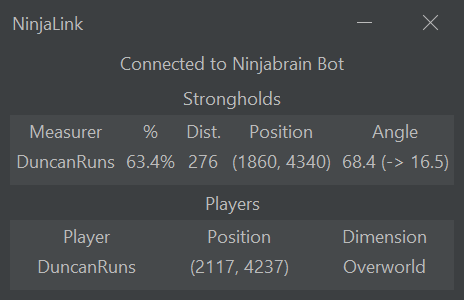
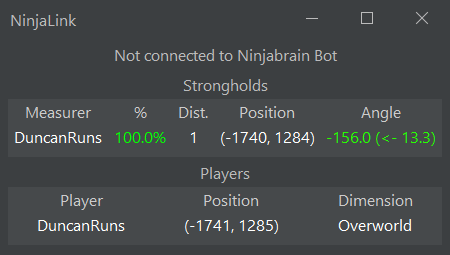
Bunch of stuff and v0.1.0

diff --git a/src/main/java/xyz/duncanruns/ninjalink/client/gui/NinjaLinkGUI.java b/src/main/java/xyz/duncanruns/ninjalink/client/gui/NinjaLinkGUI.java
@@ -1,12 +1,12 @@
 package xyz.duncanruns.ninjalink.client.gui;
 
+import org.jetbrains.annotations.NotNull;
 import xyz.duncanruns.ninjalink.client.NinjabrainBotConnector;
 import xyz.duncanruns.ninjalink.data.Dimension;
 import xyz.duncanruns.ninjalink.data.*;
 import xyz.duncanruns.ninjalink.util.AngleUtil;
 
 import javax.swing.*;
-import javax.swing.border.MatteBorder;
 import javax.swing.table.DefaultTableCellRenderer;
 import javax.swing.table.DefaultTableModel;
 import javax.swing.table.TableCellRenderer;
@@ -18,23 +18,27 @@ import java.awt.event.WindowEvent;
 import java.lang.reflect.InvocationTargetException;
 import java.util.Map;
 import java.util.Objects;
+import java.util.regex.Matcher;
+import java.util.regex.Pattern;
 
 public class NinjaLinkGUI extends JFrame {
     private final JPanel mainPanel = new JPanel();
     private final JTable playerTable = new JTable();
     private final JTable strongholdTable = new JTable();
     private final JLabel ninjabrainBotLabel = new JLabel("Not connected to Ninjabrain Bot");
+    private final int paddingSize = UIManager.getFont("defaultFont").getSize() / 2;
+    private boolean discarded = false;
 
     public NinjaLinkGUI(Runnable onClose, KeyListener keyListener) {
         super();
         GridBagLayout gridBagLayout = new GridBagLayout();
         GridBagConstraints constraints = new GridBagConstraints();
-        constraints.ipady = 10;
+        constraints.ipady = paddingSize;
         constraints.gridx = 0;
         constraints.weightx = 1;
         constraints.fill = GridBagConstraints.HORIZONTAL;
         mainPanel.setLayout(gridBagLayout);
-        mainPanel.setBorder(BorderFactory.createEmptyBorder(0, 10, 10, 10));
+        mainPanel.setBorder(BorderFactory.createEmptyBorder(0, paddingSize, paddingSize, paddingSize));
         ninjabrainBotLabel.setHorizontalAlignment(SwingConstants.CENTER);
         setContentPane(mainPanel);
         mainPanel.add(ninjabrainBotLabel, constraints);
@@ -49,14 +53,13 @@ public class NinjaLinkGUI extends JFrame {
         addWindowListener(new WindowAdapter() {
             @Override
             public void windowClosing(WindowEvent e) {
+                if (discarded) return;
                 onClose.run();
             }
         });
         setTitle("NinjaLink");
         setDefaultCloseOperation(JFrame.DISPOSE_ON_CLOSE);
-        setResizable(false);
         addKeyListener(keyListener);
-        pack();
     }
 
     public void setData(NinjaLinkGroupData groupData, NinjabrainBotEventData myData) {
@@ -118,22 +121,57 @@ public class NinjaLinkGUI extends JFrame {
         playerTable.setModel(playerTableModel);
         strongholdTable.setModel(strongholdTableModel);
         for (JTable table : new JTable[]{playerTable, strongholdTable}) {
-            DefaultTableCellRenderer centerRenderer = new DefaultTableCellRenderer();
-            centerRenderer.setHorizontalAlignment(JLabel.CENTER);
+            DefaultTableCellRenderer centerRenderer = getNinjaLinkCellRenderer();
             table.setDefaultRenderer(Object.class, centerRenderer);
             table.setFocusable(false);
             table.setRowSelectionAllowed(false);
             table.setCellSelectionEnabled(false);
-            table.setBorder(new MatteBorder(1, 1, 1, 1, UIManager.getColor("")));
             resizeColumnWidth(table);
         }
-        pack();
+        PercentageCellRenderer percentageCellRenderer = new PercentageCellRenderer();
+        percentageCellRenderer.setHorizontalAlignment(SwingConstants.CENTER);
+        AngleCellRenderer angleCellRenderer = new AngleCellRenderer();
+        angleCellRenderer.setHorizontalAlignment(SwingConstants.CENTER);
+        strongholdTable.getColumnModel().getColumn(1).setCellRenderer(percentageCellRenderer);
+        strongholdTable.getColumnModel().getColumn(4).setCellRenderer(angleCellRenderer);
+
+        adjustSize();
+    }
+
+    @NotNull
+    private static DefaultTableCellRenderer getNinjaLinkCellRenderer() {
+        DefaultTableCellRenderer centerRenderer = new DefaultTableCellRenderer() {
+            @Override
+            public Component getTableCellRendererComponent(JTable table, Object value, boolean isSelected, boolean hasFocus, int row, int column) {
+                Component c = super.getTableCellRendererComponent(table, value, isSelected, hasFocus, row, column);
+                c.setForeground(Color.getHSBColor(0, 0, row == 0 ? .8f : 1f));
+                return c;
+            }
+        };
+        centerRenderer.setHorizontalAlignment(SwingConstants.CENTER);
+        return centerRenderer;
+    }
+
+    public void adjustSize() {
+        Container contentPane = getContentPane();
+        contentPane.revalidate();
+
+        Insets insets = getInsets();
+        java.awt.Dimension contentPref = contentPane.getPreferredSize();
+        int requiredHeight = contentPref.height + insets.top + insets.bottom + 50;
+        int currentHeight = getHeight();
+        int requiredWidth = contentPref.width + insets.right + insets.left + 30;
+        int currentWidth = getWidth();
+
+        if (requiredHeight > currentHeight || requiredWidth > currentWidth)
+            setSize(Math.max(currentWidth, requiredWidth), Math.max(currentHeight, requiredHeight));
+
     }
 
     private static void resizeColumnWidth(JTable table) {
         final TableColumnModel columnModel = table.getColumnModel();
         for (int column = 0; column < table.getColumnCount(); column++) {
-            int width = 15; // Min width
+            int width = 15;
             for (int row = 0; row < table.getRowCount(); row++) {
                 TableCellRenderer renderer = table.getCellRenderer(row, column);
                 Component comp = table.prepareRenderer(renderer, row, column);
@@ -171,5 +209,56 @@ public class NinjaLinkGUI extends JFrame {
     public void setPinned(boolean b) {
         setAlwaysOnTop(b);
         setTitle("NinjaLink" + (b ? " \uD83D\uDCCC" : ""));
+    }
+
+    public void discard() {
+        discarded = true;
+        dispose();
+    }
+
+    private static class PercentageCellRenderer extends DefaultTableCellRenderer {
+        @Override
+        public Component getTableCellRendererComponent(JTable table, Object value, boolean isSelected, boolean hasFocus, int row, int column) {
+            Component c = super.getTableCellRendererComponent(table, value, isSelected, hasFocus, row, column);
+            if (row == 0) {
+                c.setForeground(Color.getHSBColor(0, 0, .8f));
+                return c;
+            }
+            if (value == null) return c;
+            try {
+                String text = value.toString().replace("%", "");
+                float percent = Float.parseFloat(text);
+                // Gradient from red (0%) to green (100%)
+                float hue = (percent / 100.0f) * 0.333f; // 0.0 (red) to 0.333 (green)
+                c.setForeground(Color.getHSBColor(hue, 1.0f, 1f));
+            } catch (NumberFormatException e) {
+                // Keep default color if parsing fails
+            }
+            return c;
+        }
+    }
+
+    private static class AngleCellRenderer extends DefaultTableCellRenderer {
+        @Override
+        public Component getTableCellRendererComponent(JTable table, Object value, boolean isSelected, boolean hasFocus, int row, int column) {
+            Component c = super.getTableCellRendererComponent(table, value, isSelected, hasFocus, row, column);
+            if (row == 0) {
+                c.setForeground(Color.getHSBColor(0, 0, .8f));
+                return c;
+            }
+            if (value == null) return c;
+            String text = value.toString();
+            if (text.isEmpty()) return c;
+
+            Matcher matcher = Pattern.compile(".+\\d+\\.\\d+.+?(\\d+\\.\\d+).+").matcher(text);
+            if (!matcher.matches()) return c;
+            try {
+                float angleDiff = Float.parseFloat(matcher.group(1));
+                float hue = (1.0f - (angleDiff / 180.0f)) * 0.333f;
+                c.setForeground(Color.getHSBColor(hue, 1.0f, 1f));
+            } catch (NumberFormatException ignored) {
+            }
+            return c;
+        }
     }
 }

diff --git a/src/main/java/xyz/duncanruns/ninjalink/client/NinjaLinkClient.java b/src/main/java/xyz/duncanruns/ninjalink/client/NinjaLinkClient.java
@@ -26,6 +26,7 @@ public final class NinjaLinkClient {
     private static NinjabrainBotConnector ninjabrainBot;
     private static boolean closing = false;
     private static NinjaLinkConfig ninjaLinkConfig;
+    private static NinjaLinkGroupData latestData = new NinjaLinkGroupData();
 
     private NinjaLinkClient() {
     }
@@ -41,12 +42,7 @@ public final class NinjaLinkClient {
         if (Arrays.asList(args).stream().skip(2).noneMatch(s -> s.toLowerCase().contains("nogui")))
             SwingUtilities.invokeAndWait(() -> {
                 FlatDarkLaf.setup();
-                Font defaultFont = UIManager.getFont("defaultFont");
-                float newSize = defaultFont.getSize() * 1.5f;
-                UIManager.put("defaultFont", defaultFont.deriveFont(newSize));
-                ninjaLinkGUI = new NinjaLinkGUI(NinjaLinkClient::close, getKeyListener());
-                ninjaLinkGUI.setVisible(true);
-                ninjaLinkGUI.setPinned(ninjaLinkConfig.guiPinned);
+                createGUIWithFontSize(ninjaLinkConfig.fontSize);
             });
 
         AtomicReference<String> toConnectToRef = new AtomicReference<>(ninjaLinkConfig.ip);
@@ -90,7 +86,7 @@ public final class NinjaLinkClient {
 
         ninjaLinkConfig.ip = toConnectTo;
         ninjaLinkConfig.nickname = name;
-        if (!ninjaLinkConfig.trySave()) System.out.println("Failed to save config!");
+        trySaveConfig();
 
         try {
             runClient(ip, port, name);
@@ -107,15 +103,55 @@ public final class NinjaLinkClient {
         return new KeyAdapter() {
             @Override
             public void keyPressed(KeyEvent e) {
-                if (e.getKeyChar() == 'p') {
-                    swapGuiPinned();
+                switch (e.getKeyCode()) {
+                    case 38:
+                        bumpFontSize(true);
+                        break;
+                    case 40:
+                        bumpFontSize(false);
+                        break;
+                    case 80:
+                        swapGuiPinned();
+                        break;
                 }
             }
         };
     }
 
+    private static void bumpFontSize(boolean up) {
+        int currentSize = ninjaLinkConfig.fontSize;
+        int newSize = Math.min(24, Math.max(4, currentSize + (up ? 2 : -2)));
+        if (currentSize == newSize) return;
+        System.out.println("Changed font size to " + newSize);
+        createGUIWithFontSize(newSize);
+
+        ninjaLinkConfig.fontSize = newSize;
+        trySaveConfig();
+    }
+
+    private static synchronized void createGUIWithFontSize(int size) {
+        Font defaultFont = UIManager.getFont("defaultFont");
+        UIManager.put("defaultFont", defaultFont.deriveFont((float) size));
+        UIManager.put("Table.foreground", Color.WHITE);
+        if (ninjaLinkGUI != null) {
+            ninjaLinkGUI.discard();
+            ninjaLinkConfig.bounds = ninjaLinkGUI.getBounds();
+        }
+        ninjaLinkGUI = new NinjaLinkGUI(NinjaLinkClient::close, getKeyListener());
+        ninjaLinkGUI.setData(latestData, myData);
+        ninjaLinkGUI.setBounds(ninjaLinkConfig.bounds);
+        ninjaLinkGUI.setPinned(ninjaLinkConfig.guiPinned);
+        ninjaLinkGUI.adjustSize();
+        ninjaLinkGUI.setVisible(true);
+        ninjaLinkGUI.requestFocus();
+    }
+
     private static void swapGuiPinned() {
         ninjaLinkGUI.setPinned(ninjaLinkConfig.guiPinned = !ninjaLinkConfig.guiPinned);
+        trySaveConfig();
+    }
+
+    private static void trySaveConfig() {
         if (!ninjaLinkConfig.trySave()) System.out.println("Failed to save config!");
     }
 
@@ -135,6 +171,8 @@ public final class NinjaLinkClient {
         }
         if (ninjabrainBot != null) ninjabrainBot.close();
         SocketUtil.carelesslyClose(socket);
+        if (ninjaLinkGUI != null) ninjaLinkConfig.bounds = ninjaLinkGUI.getBounds();
+        trySaveConfig();
     }
 
     private static void onNBotConnectionStateChange(NinjabrainBotConnector.ConnectionState previousState, NinjabrainBotConnector.ConnectionState connectionState) {
@@ -247,8 +285,9 @@ public final class NinjaLinkClient {
         }
     }
 
-    private static void onNewGroupData(NinjaLinkGroupData ninjaLinkGroupData) {
+    private static synchronized void onNewGroupData(NinjaLinkGroupData ninjaLinkGroupData) {
         System.out.println("New group data received: " + ninjaLinkGroupData.toJson());
+        NinjaLinkClient.latestData = ninjaLinkGroupData;
         if (ninjaLinkGUI != null) ninjaLinkGUI.setData(ninjaLinkGroupData, myData);
     }
 }

diff --git a/src/main/java/xyz/duncanruns/ninjalink/client/NinjaLinkConfig.java b/src/main/java/xyz/duncanruns/ninjalink/client/NinjaLinkConfig.java
@@ -3,6 +3,7 @@ package xyz.duncanruns.ninjalink.client;
 import com.google.gson.Gson;
 import xyz.duncanruns.ninjalink.util.FileUtil;
 
+import java.awt.*;
 import java.nio.file.Files;
 import java.nio.file.Path;
 import java.nio.file.Paths;
@@ -14,6 +15,8 @@ public class NinjaLinkConfig {
     public String ip = "";
     public String nickname = "";
     public boolean guiPinned = false;
+    public int fontSize = 16;
+    public Rectangle bounds = new Rectangle(100, 100, 480, 270);
 
     public static boolean configFileExists() {
         return Files.exists(CONFIG_FILE);

diff --git a/README.md b/README.md
@@ -21,6 +21,7 @@ A co-op tool to see other player's positions and measured strongholds using Ninj
 ### Usage
 
 - You can press `P` with the window selected to 'pin' the window (always on top).
+- You can press the up or down arrow keys to increase/decrease font size.
 - With Ninjabrain Bot open, measure a Stronghold as normal, and you should see it appear on NinjaLink, you will also see
   other player's Strongholds appear on NinjaLink.
 - Press F3+C at any point for other players to see your coordinates and dimension, and to update your distances and
